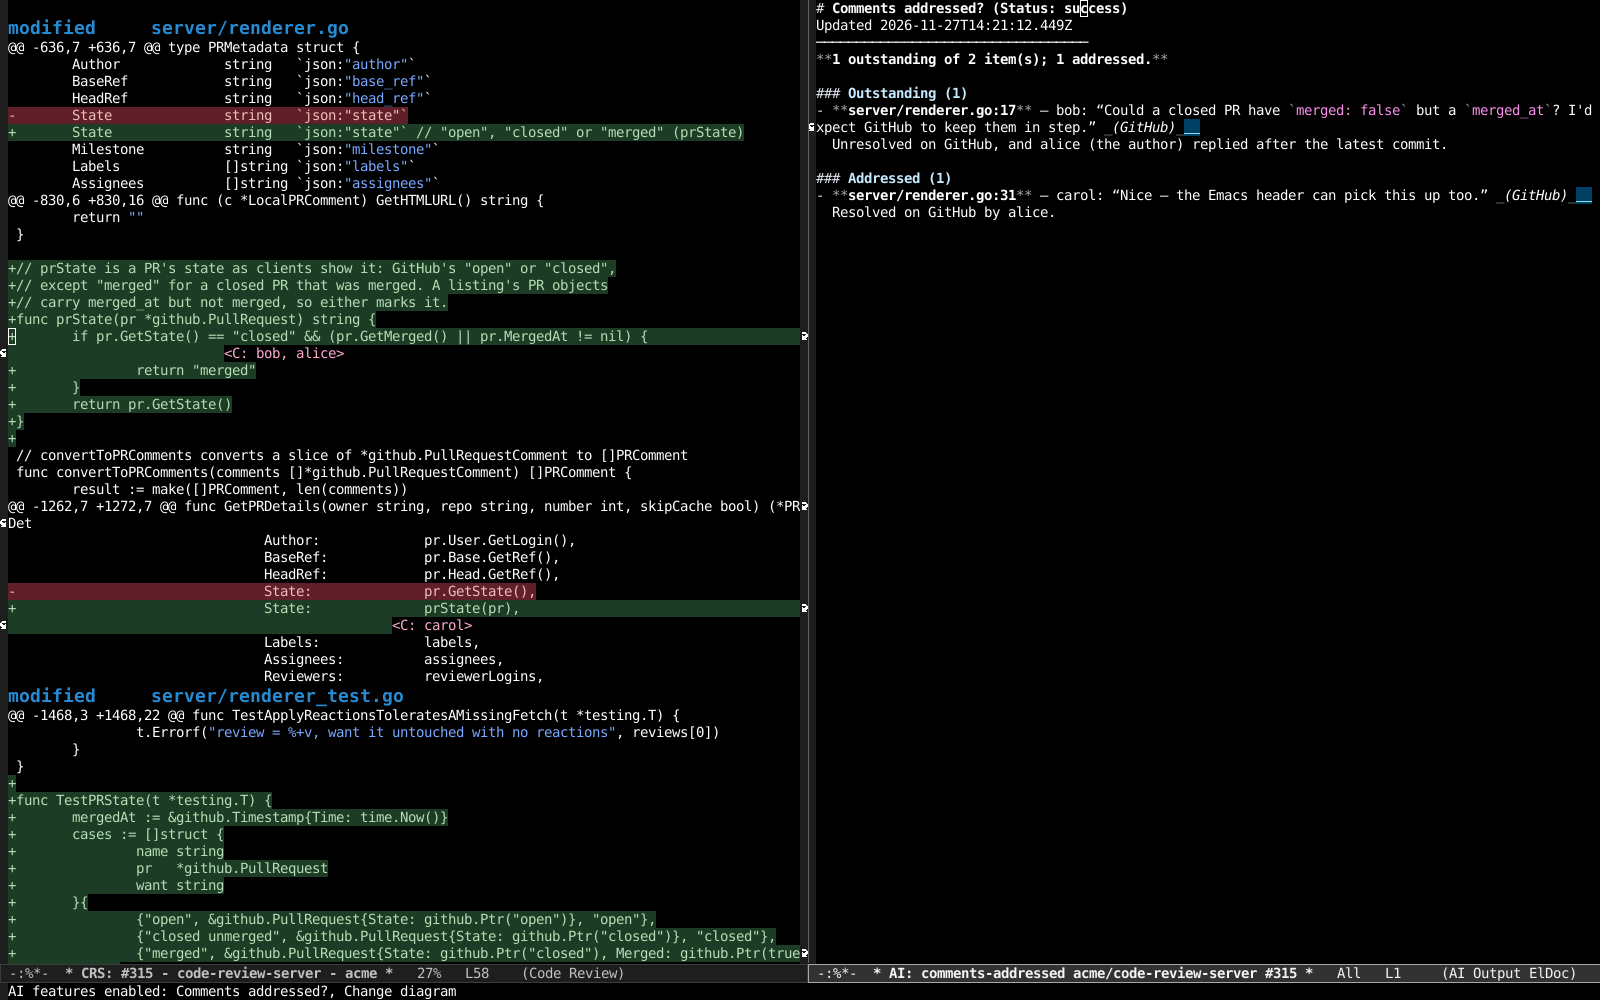
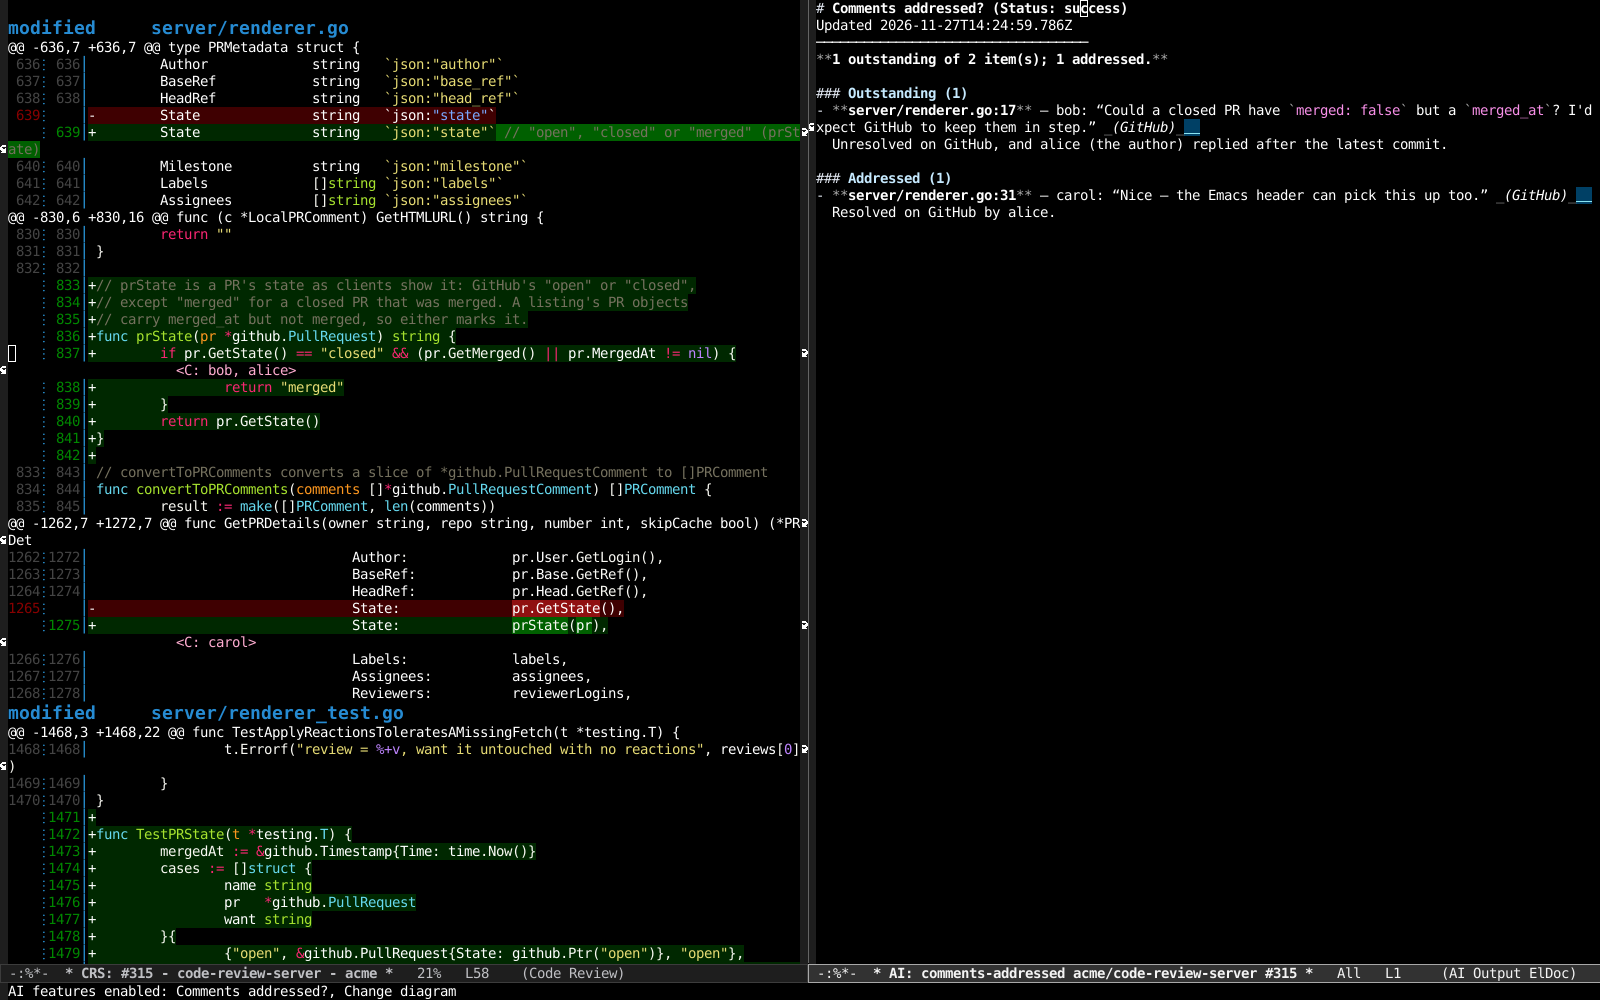
docs: wash the Emacs screenshots' diffs through git-delta
The Emacs shots coloured +/- lines with a font-lock stand-in instead of the
delta wash the client does (crs-render calls `delta-wash`, which needs
magit-delta or code-review). screenshots.el now defines magit-delta's washer
itself: the buffer goes through the real `delta` (line numbers, kept +/-
markers, raw file and hunk headers, which crs--simplify-diff-headers and the
position code expect) and its colours become overlays via ansi-color. The
Emacs screenshots are retaken with it.

Claude-Session: https://claude.ai/code/session_019iiPUFEsXaX6VjHMKbCSmB

Changed region(s): [[0.0, 0.062, 0.5, 0.992], [0.625, 0.0, 0.6562, 0.031], [0.4688, 0.744, 0.5, 0.775]]

diff --git a/bun_client/e2e/README.md b/bun_client/e2e/README.md
@@ -80,7 +80,7 @@ bun e2e/screenshots.ts               # the web client's; or name some: list revi
 e2e/screenshots_emacs.sh             # the Emacs client's (screenshots.el)
 ```
 
-The Emacs ones need a graphical Emacs, `markdown-mode`, `xvfb-run`, ImageMagick's
+The Emacs ones need a graphical Emacs, `markdown-mode`, git-delta (`delta`: `screenshots.el` stands in for magit-delta's washer, so the diff is washed as `delta-wash` washes it), `xvfb-run`, ImageMagick's
 `import` and the DejaVu fonts. Set `CHROMIUM_PATH` to take the web ones with a
 Chromium other than the one Playwright downloads.
 
